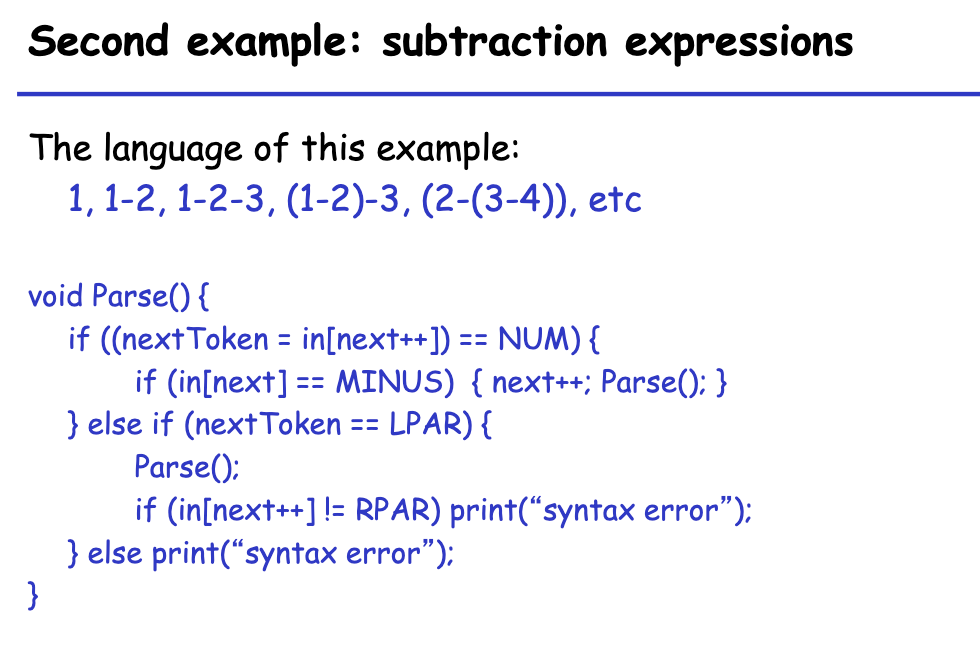
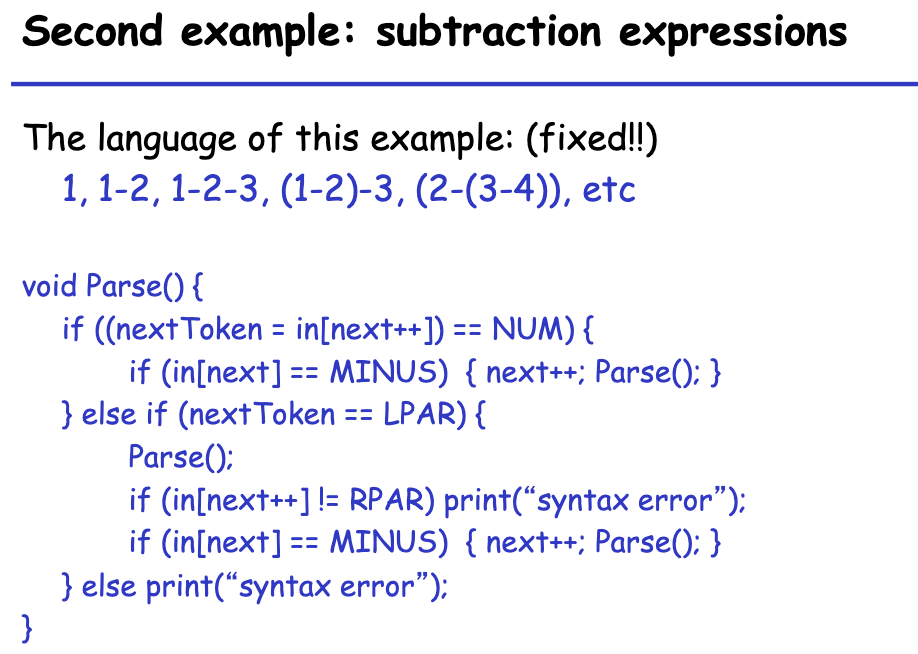
vault backup: 2025-10-28 09:49:55

diff --git a/Primo Semestre Major/Linguaggi, Compilatori e Modelli Computazionali/Compilatori.md b/Primo Semestre Major/Linguaggi, Compilatori e Modelli Computazionali/Compilatori.md
@@ -241,3 +241,5 @@ Un parser ha due task:
 ![[Primo Semestre Major/Linguaggi, Compilatori e Modelli Computazionali/imgs/28_10_2025/3.png]]
 ![[Primo Semestre Major/Linguaggi, Compilatori e Modelli Computazionali/imgs/28_10_2025/4.png]]
 ![[Primo Semestre Major/Linguaggi, Compilatori e Modelli Computazionali/imgs/28_10_2025/5.png]]
+### We need a clean Syntactic Description
+![[Primo Semestre Major/Linguaggi, Compilatori e Modelli Computazionali/imgs/28_10_2025/6.png]]
